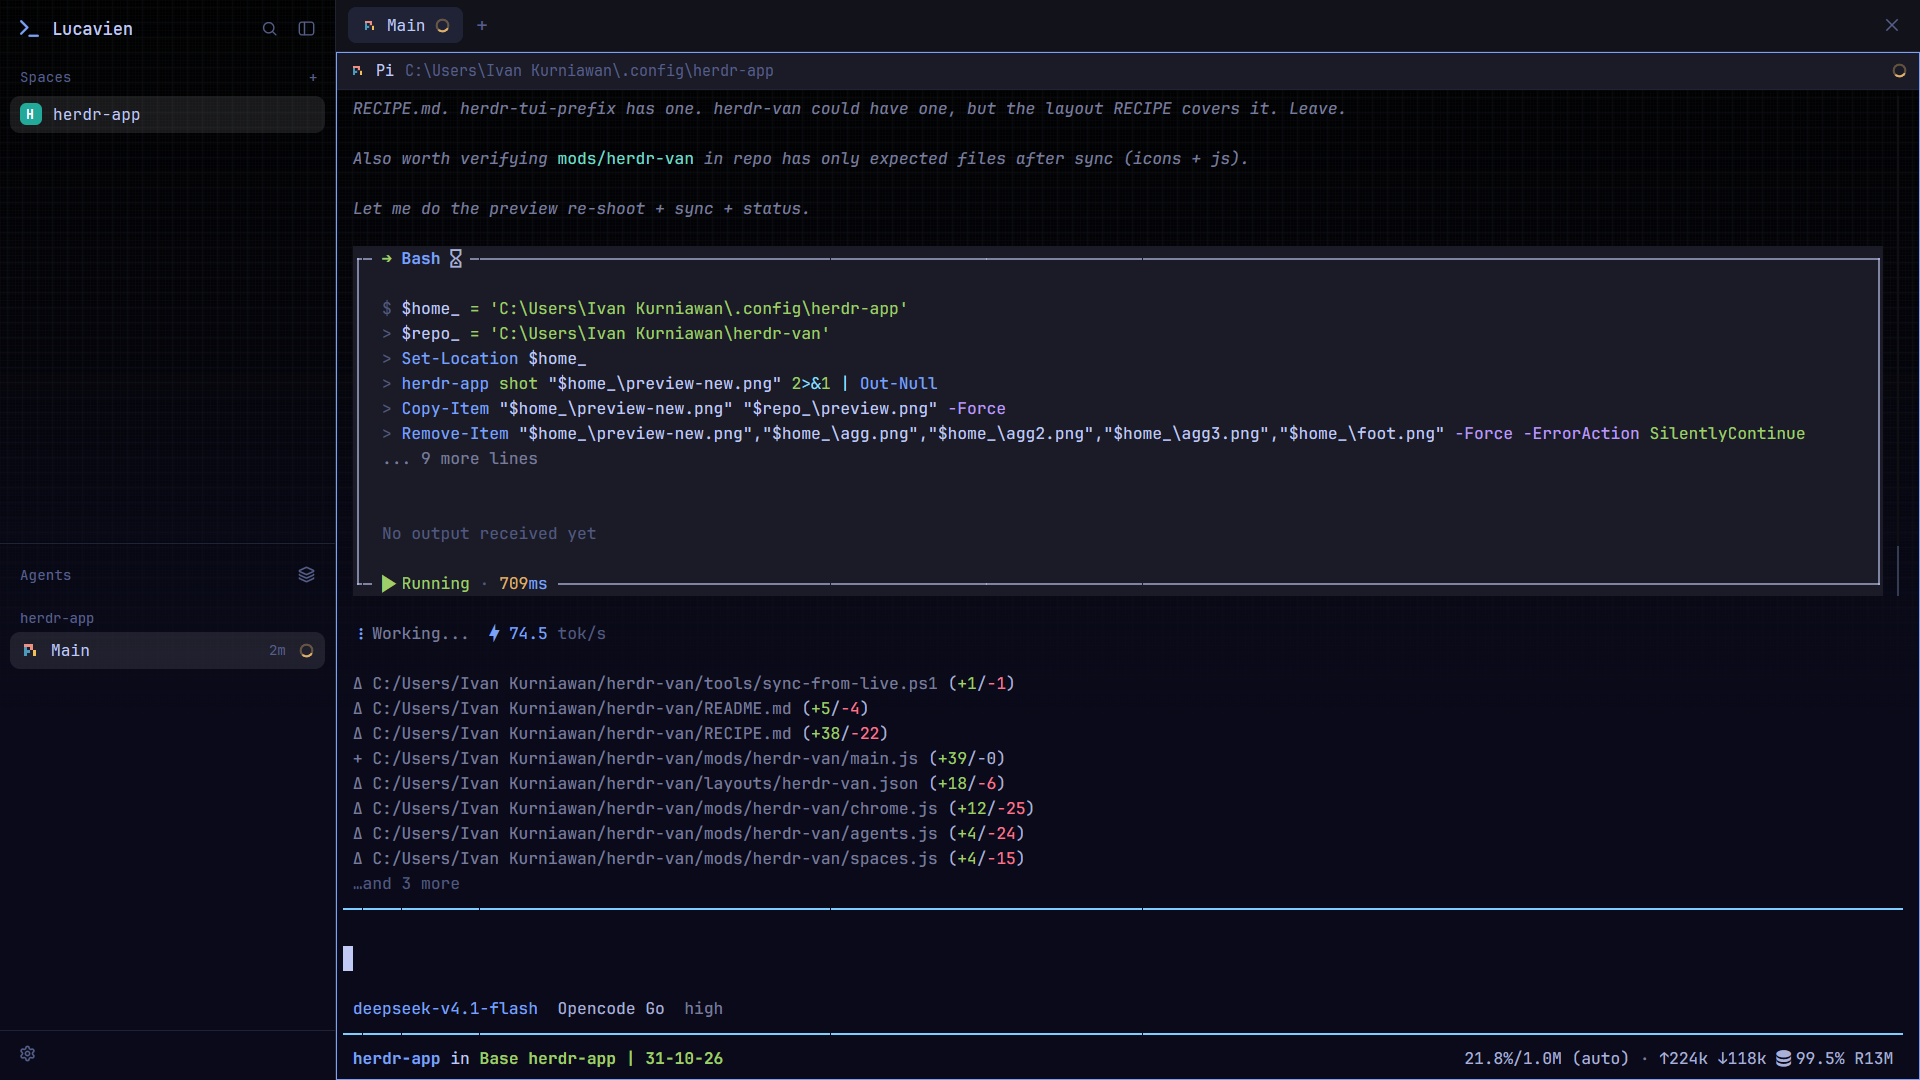
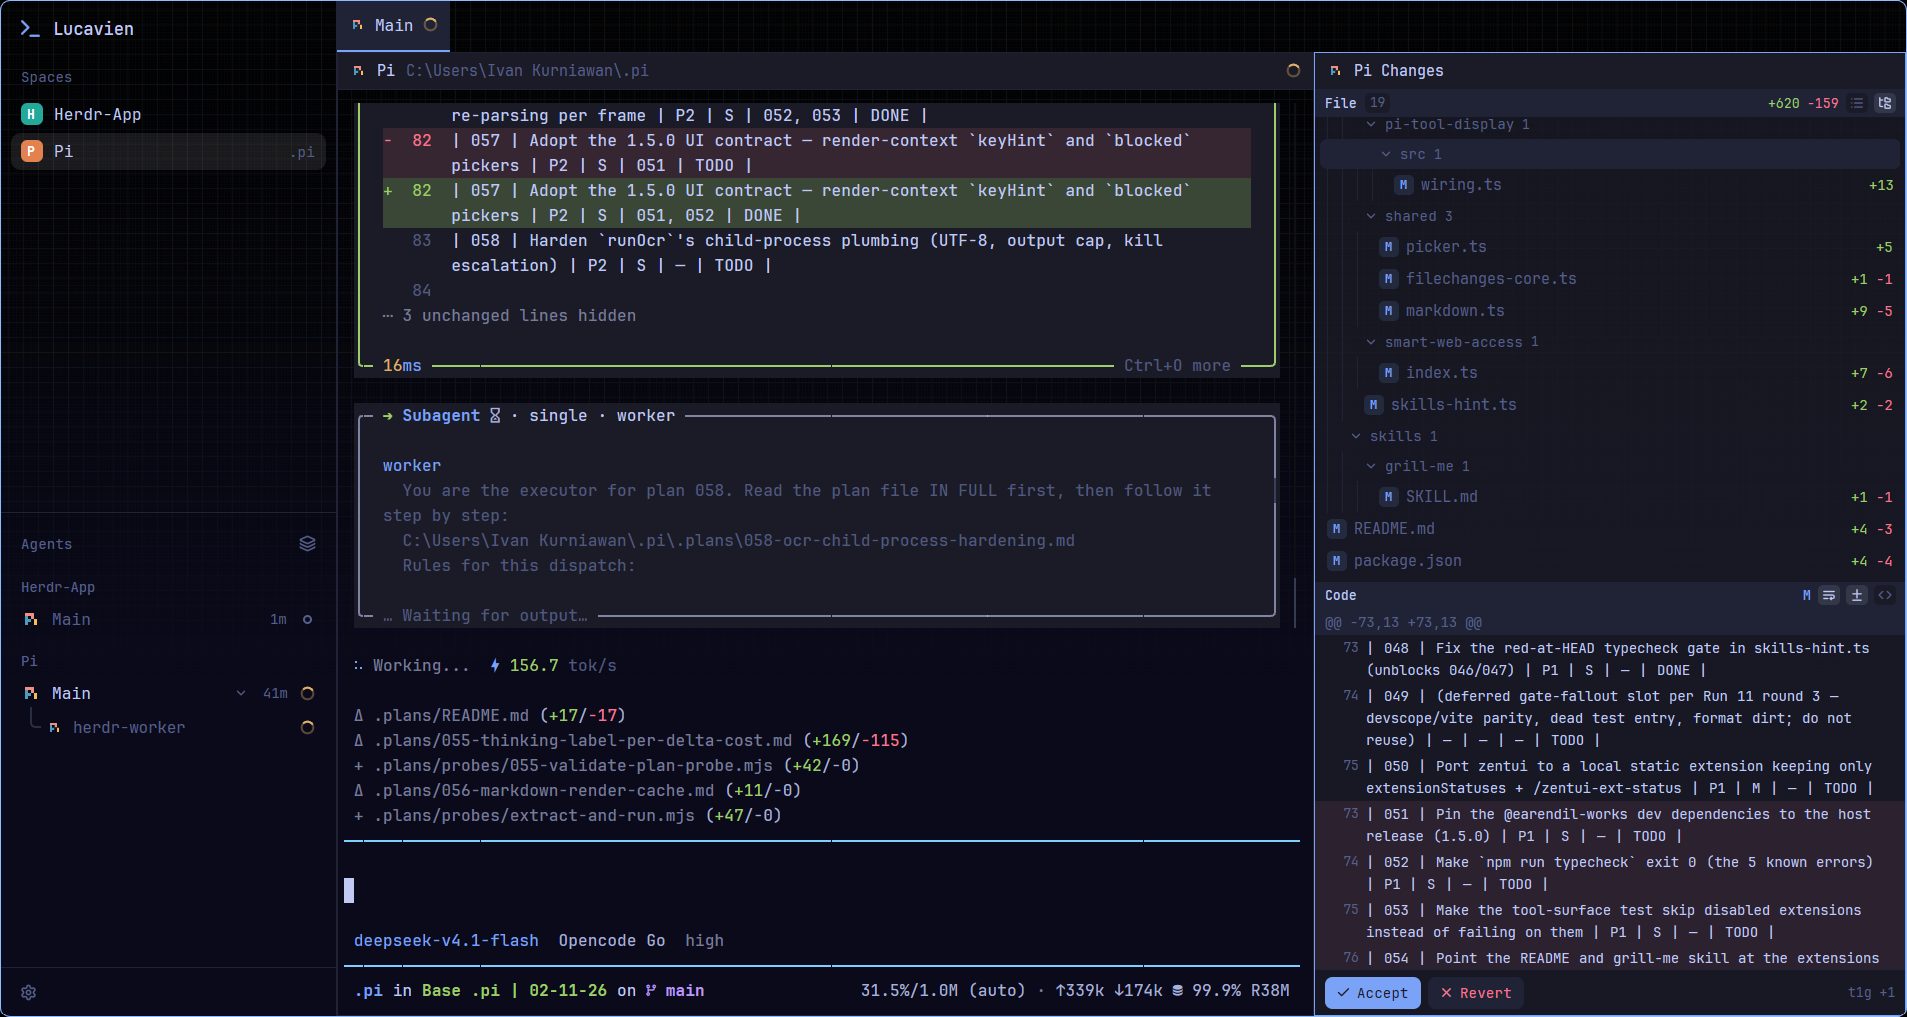
fix(herdr-van): name the font family Herdr resolves
Herdr 0.1.12 stopped drawing Nerd Font icons from its own picture set and asks
the terminal font for those cells instead. That exposed a name that had never
resolved: JetBrainsMono NFM is the file's legacy family, while Herdr resolves the
typographic one, JetBrainsMono Nerd Font Mono. The miss was silent - the terminal
fell back to the bundled plain JetBrains Mono, whose text is indistinguishable but
which has no Nerd Font glyphs, so branch, play and hourglass icons drew as empty
boxes while everything else looked right.

The layout and settings now use the typographic name, and the docs say which one
to use and what an unresolved name costs, so a rebuild does not repeat the trap.

Also refreshes preview.png.

diff --git a/RECIPE.md b/RECIPE.md
@@ -40,7 +40,7 @@ window-close button at the far right — both full bar height and square (42×42
 this bar height), drawn only while the pointer is on the
 bar, and filled `#1f2335` only while hovered. Below
 it, one borderless terminal card with square corners, zero gap and zero outer
-padding: text in JetBrainsMono NFM (13px) sitting straight on the faint paper
+padding: text in JetBrainsMono Nerd Font Mono (13px) sitting straight on the faint paper
 grid, which fades to solid indigo near the bottom edge. A 30px pane header is
 always visible, showing the program, the folder, and a spinner while an agent
 works.
@@ -72,8 +72,8 @@ works.
 name is the layout name, so it must be `herdr-van.json`. Root look only:
 
 ```json
-{ "theme": "tokyo-night", "font": "JetBrainsMono NFM", "font_size": 13,
-  "ui_font": "JetBrainsMono NFM", "terminal_opacity": 0,
+{ "theme": "tokyo-night", "font": "JetBrainsMono Nerd Font Mono", "font_size": 13,
+  "ui_font": "JetBrainsMono Nerd Font Mono", "terminal_opacity": 0,
   "terminal_padding": [5, 2],
   "background": { "image": "backgrounds/tokyo-grid.png", "fit": "cover" } }
 ```
@@ -192,6 +192,12 @@ It skips app-generated files (`jsconfig.json`, `gpui-kit.d.ts`, `*.error`) and
 the personal brand config.
 
 ## Watch out
+
+Font names: the file's legacy family (`JetBrainsMono NFM`) and its typographic
+family (`JetBrainsMono Nerd Font Mono`) differ. Herdr resolves the typographic
+one; the legacy name is silently ignored and the terminal falls back to plain
+JetBrains Mono — identical-looking text, but every Nerd Font icon (branch, play,
+hourglass) draws as an empty box.
 
 - `terminal_opacity: 0` puts terminal text straight on the image. On a brighter
   grid, raise it to 0.7–0.85.

diff --git a/README.md b/README.md
@@ -50,8 +50,10 @@ the icons and the background silently go missing.
 ## Needs
 
 - The Herdr app (built against 0.1.10).
-- `JetBrainsMono NFM` installed, for the UI font. Without it you get JetBrains
-  Mono and things look slightly different.
+- `JetBrainsMono NFM` installed, for the UI font, and named by its typographic
+  family (`JetBrainsMono Nerd Font Mono`) in the layout: Herdr resolves that name,
+  and anything it can't resolve falls back to plain JetBrains Mono, which has no
+  Nerd Font glyphs.
 - Roughly a 1080p window. The backdrop is 2560×1440 and cover-fits.
 
 ## Keys
